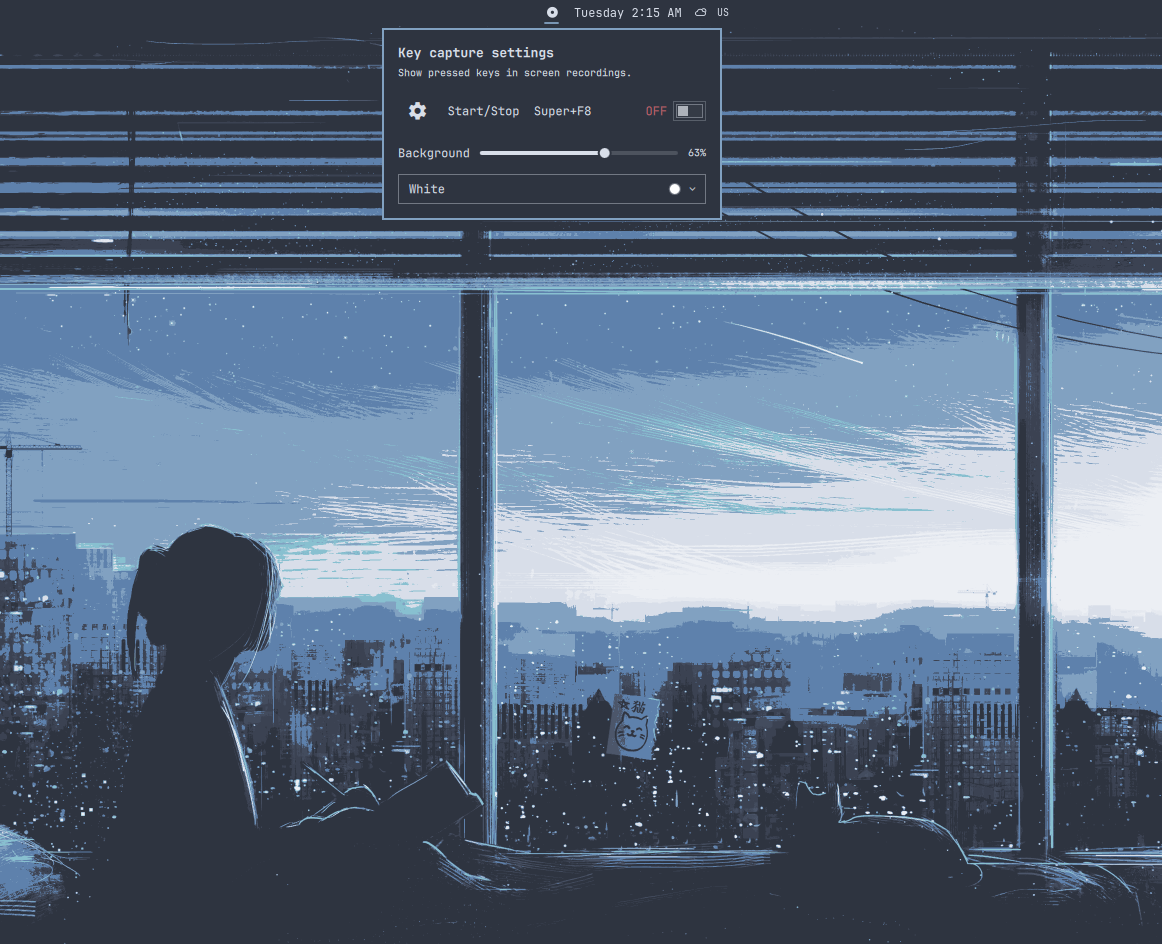
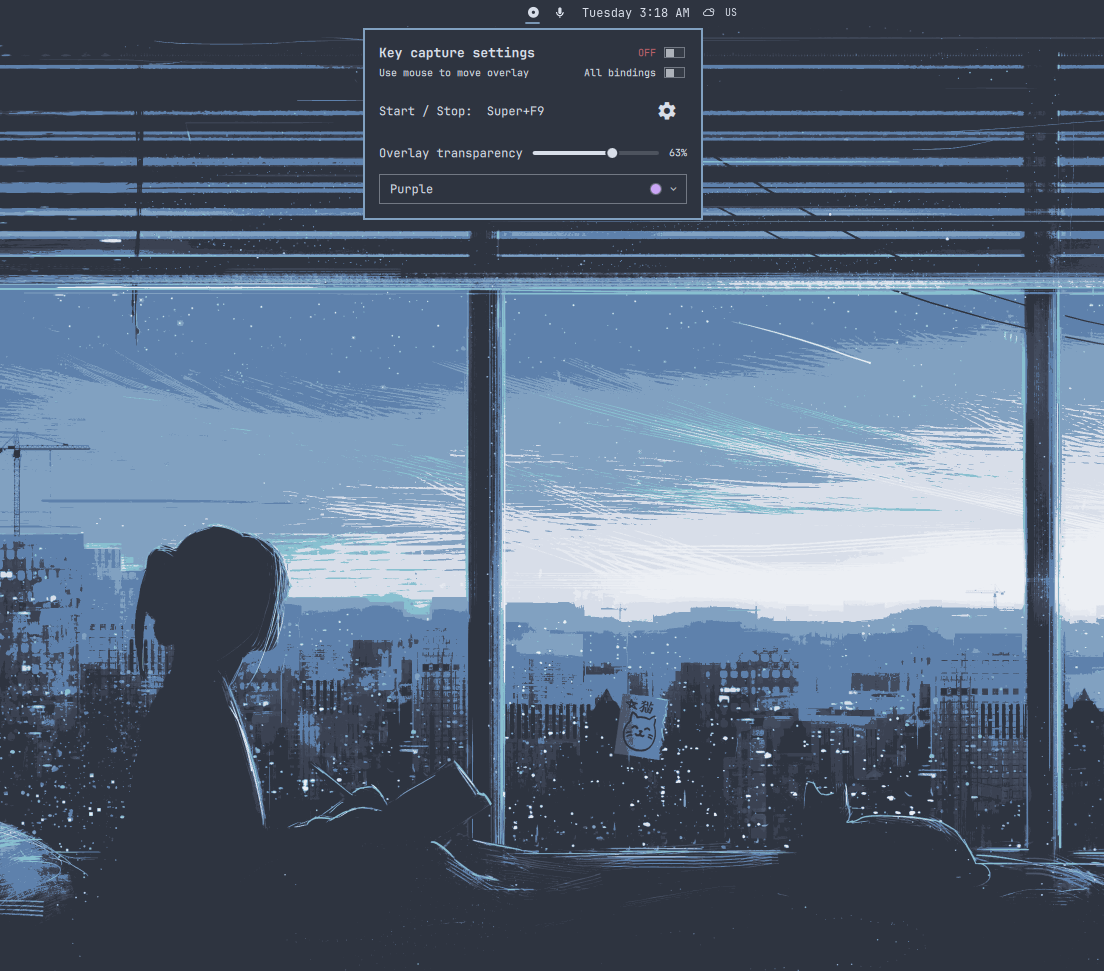
docs: refresh capture controls preview and defaults (#5)

diff --git a/README.md b/README.md
@@ -35,7 +35,8 @@ your system package stays unchanged.
   The panel shows your current shortcut.
 
 Recording and key display work independently. Keys stay off until you turn
-them on, and the bar icon is always there.
+them on, and the bar icon is always there. New installations use white text
+and **All bindings**.
 
 Double-tap **Alt** to pause or resume the key display. Double-tap **Ctrl** to
 make the overlay draggable, then again to let clicks pass through it.
